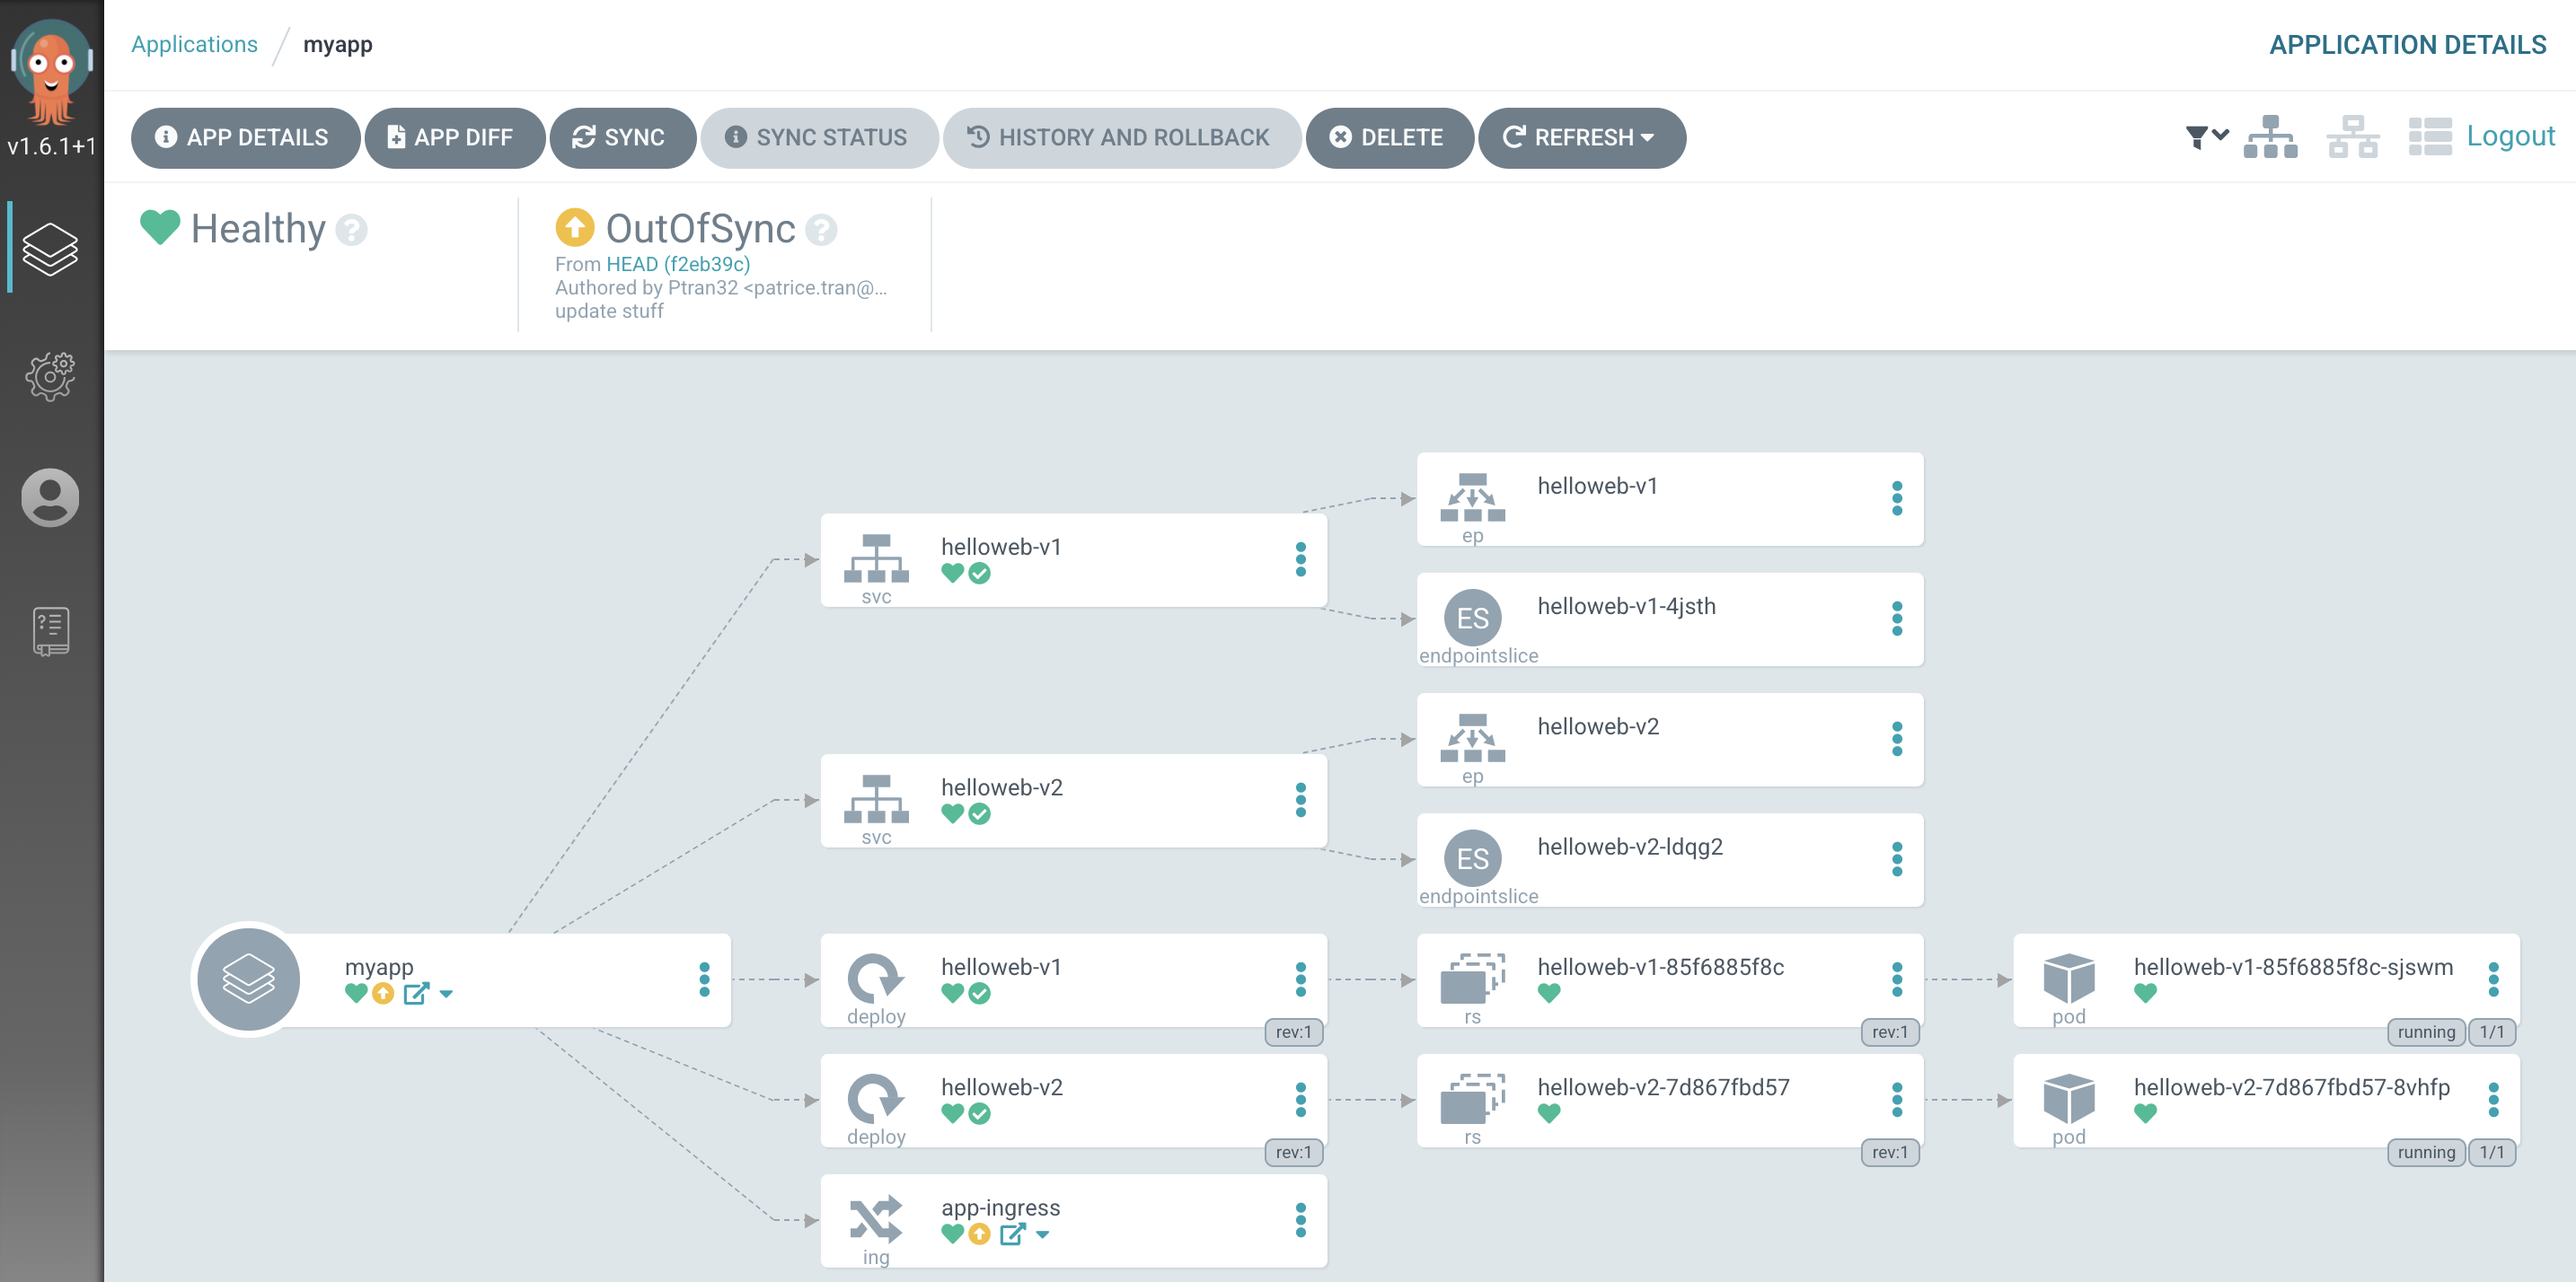
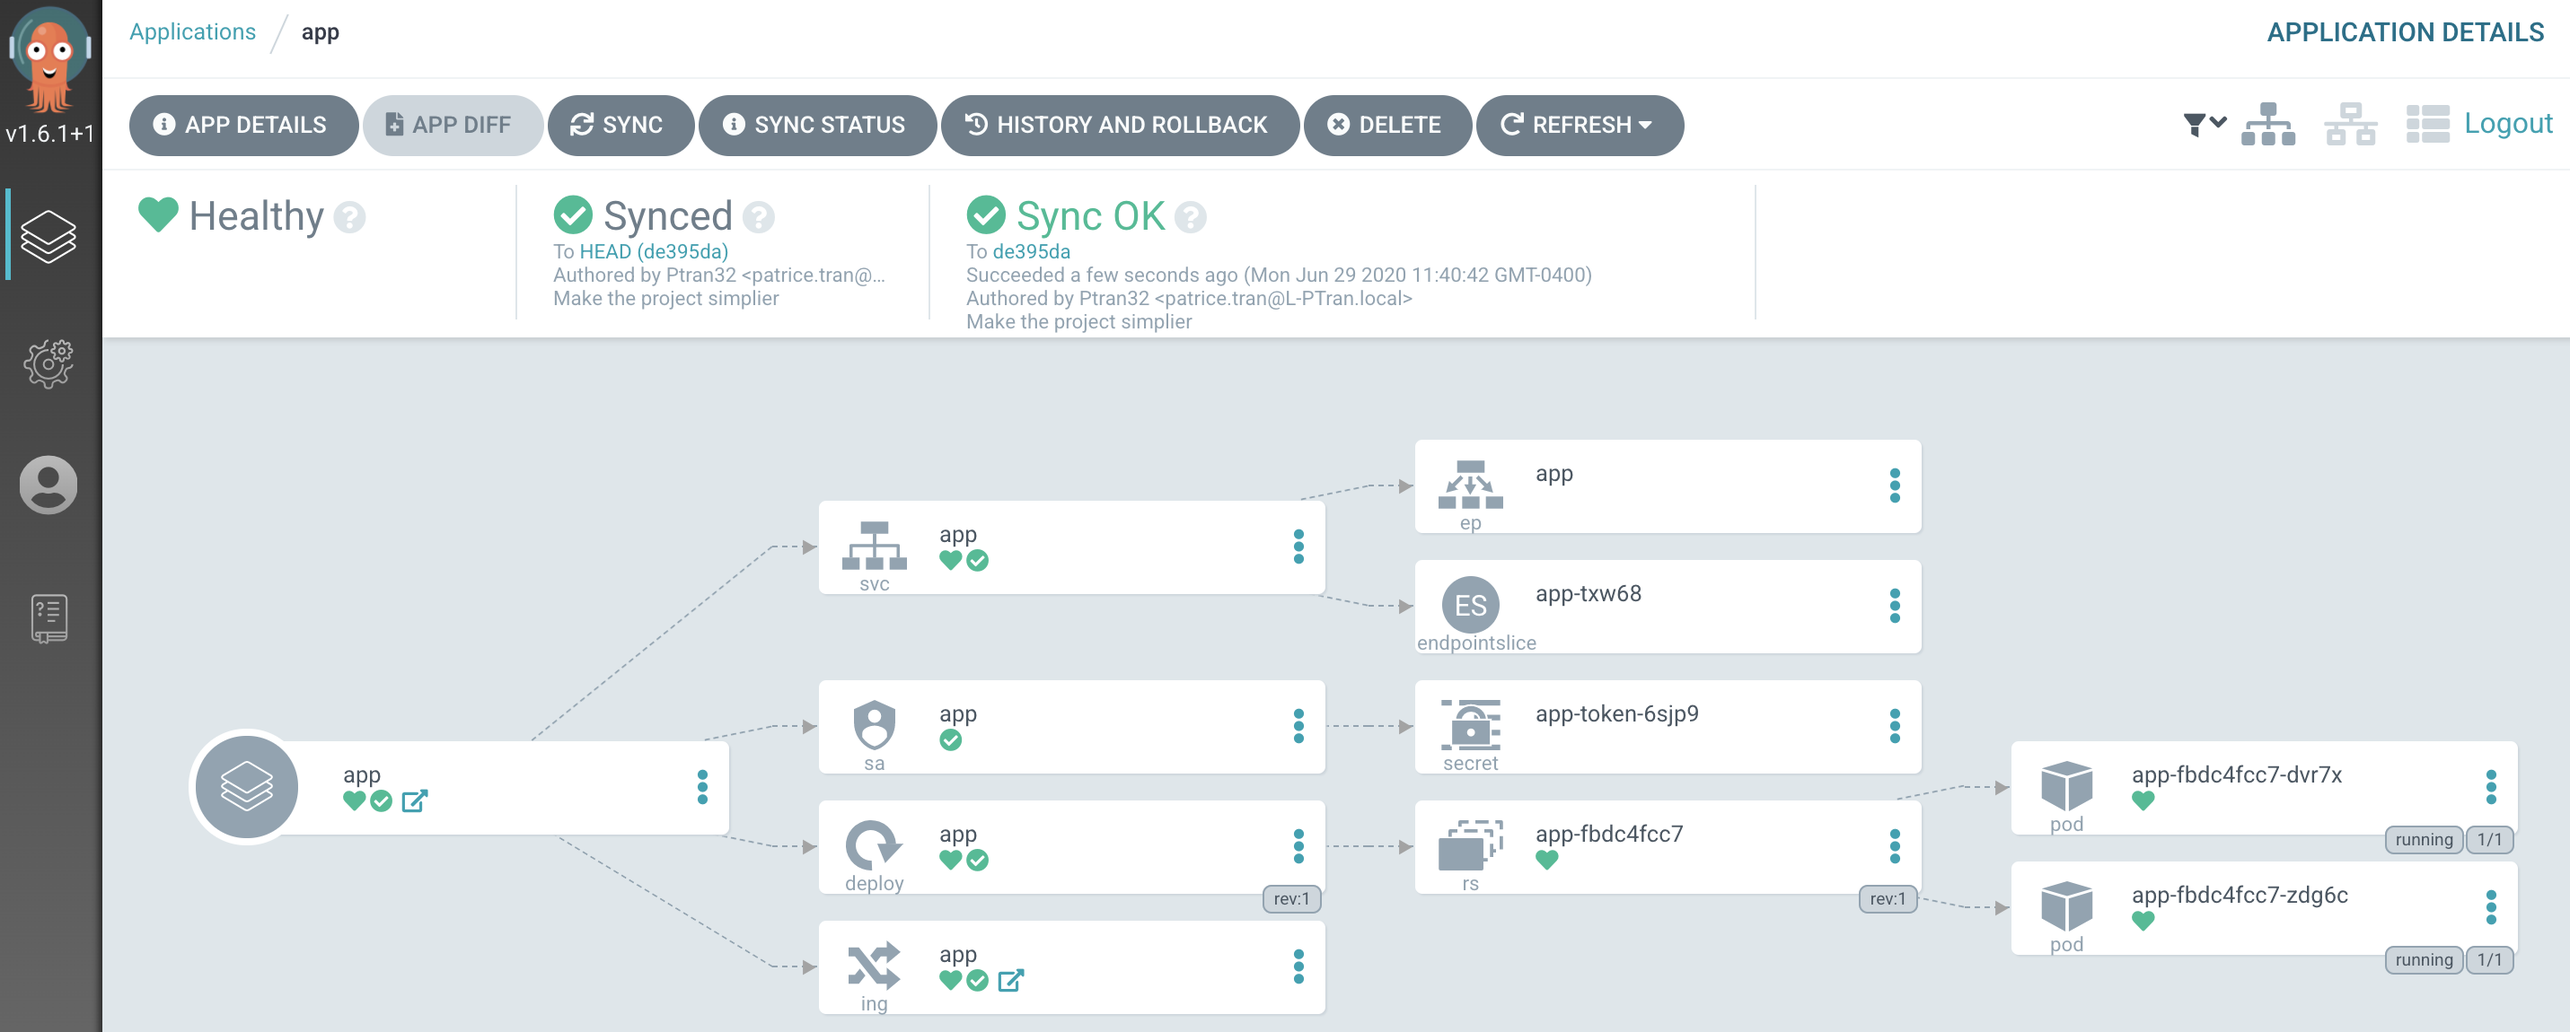
first release

diff --git a/README.md b/README.md
@@ -1,20 +1,13 @@
 # argocd-deployment
-Sample projet to show ArgoCD features
+Sample projet to show ArgoCD features on minikube
 
-![Image of Yaktocat](https://github.com/ptran32/argocd-deployment/blob/master/img/argo-ui-schema.png)
+![Image of argo-ui-schema](https://github.com/ptran32/argocd-deployment/blob/master/img/argo-ui-schema.png)
 
 # More details
 You can found more details on my blog:
 
 https://ptran32.github.io/2020-05-28-continuous-k8s-deployment-with-argocd/
 
-
-# Fork this repo
-ArgoCD relies on syncing a remote repo with the cluster.
-Forking this repo allows you to trigger changes in your cluster, and play with the tool.
-
-Ingress resources defined in the app folder redirect to my minikube ip, which might different from yours.
-So forking is the only way I've found to integrate ingress and make it work regardless who uses it. (might improve it in the future)
 
 # Kubernetes Install
 
@@ -33,16 +26,10 @@ Get the cluster IP ( Note it somewhere, we will need it after for ingress config
 minikube ip 
 ```
 
-# Configure ingress (for easier access to app and argocd)
-From the root repository, use the command below to add the minikube IP to ingress resources.
+# Clone this repo
+Get this repo on your local machine.
 
-The command works on mac, the “” at the beginning might not work on linux. If not, replace the {MINIKUBE_IP} placeholders in app/app-ingtess.yaml and argocd/argocd-ingress.yaml
-
-```
-sed -i "" "s/{MINIKUBE_IP}/$(minikube ip)/g" app/app-ingress.yaml argocd/argocd-ingress.yaml
-```
-
-# ArgoCD Install
+# Install ArgoCD
 
 Deploy the argoCD CRD and configure ingress in the cluster
 ```
@@ -50,9 +37,21 @@ kubectl create namespace argocd
 make deploy
 ```
 
-# argoCD UI
+# Configure ArgoCD Ingress
 
-Access the UI with your web browser using the informations below
+Modify the file argocd/argocd-ingress.yaml
+
+Change 192.168.64.54 with the output of "minikube ip" command
+
+```
+  - host: argocd.192.168.64.54.xip.io
+```
+
+This gonna give you access to argoCD UI without having to modify your /etc/hosts
+
+# Access ArgoCD UI
+
+Access it using your web browser with the informations below:
 
 URL: argocd.{YOUR_MINIKUBE_IP}.xip.io
 
@@ -62,4 +61,29 @@ password: {output of the command below}
 
 ```
 kubectl get pods -n argocd -l app.kubernetes.io/name=argocd-server -o name | cut -d'/' -f 2
+```
+
+# Deploy the app
+
+Click on "+ New app" and fill the informations needed. You can keep all default values for options not mentionned below:
+
+- Application Name: app
+- Project: default
+- sync policy: Automatic
+- source: https://github.com/ptran32/argocd-deployment
+- path: app
+- cluster: click on cluster and select the only choice possible
+- namespace: default
+- ingress.hosts[0].paths[0]: app.{YOUR_MINIKUBE_IP}.xip.io
+
+If nothing appears, refresh the page. If you click on the box, you should see all app components (pod, services, deployment, secret, ingress).
+
+You can access to your application by clicking on the small square the "ing" resource. 
+
+You should see this on your web browser.
+
+```
+Hello, world!
+Version: 1.0.0
+Hostname: app-fbdc4fcc7-98mmt
 ```
